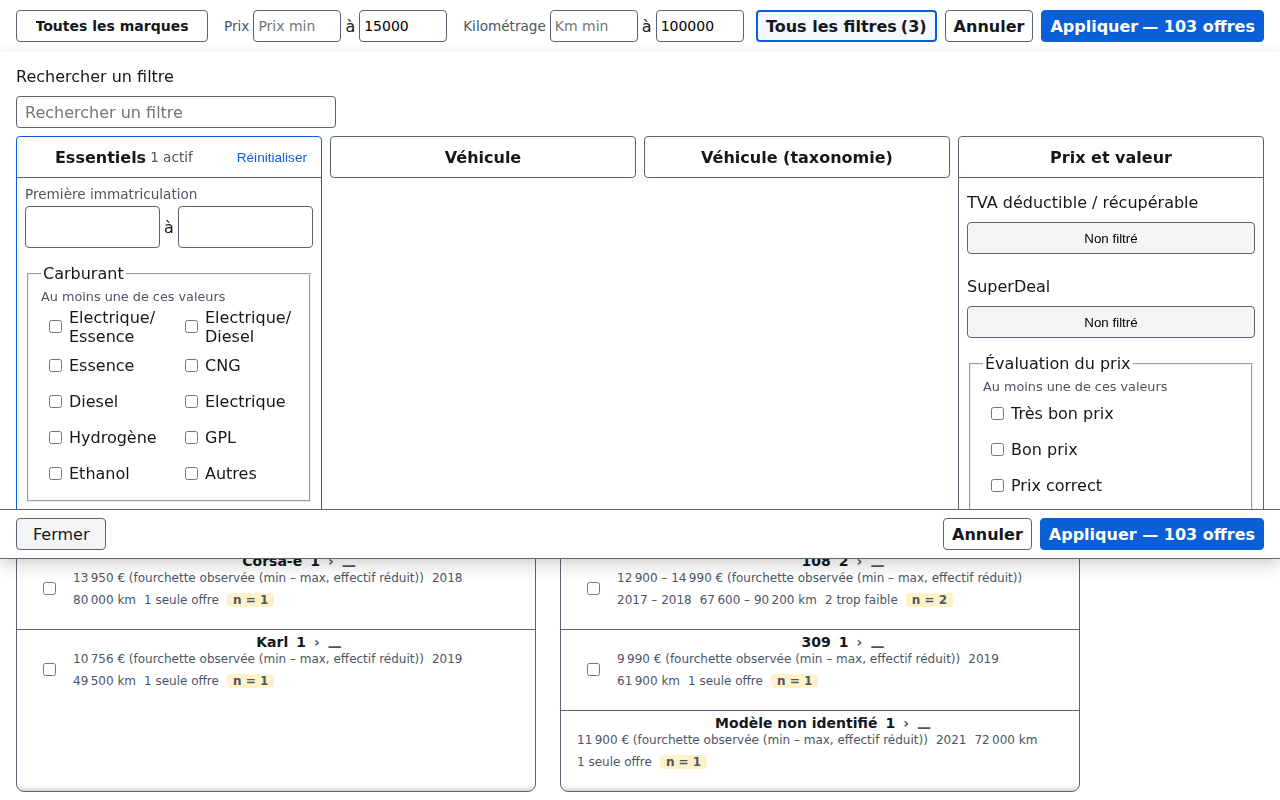
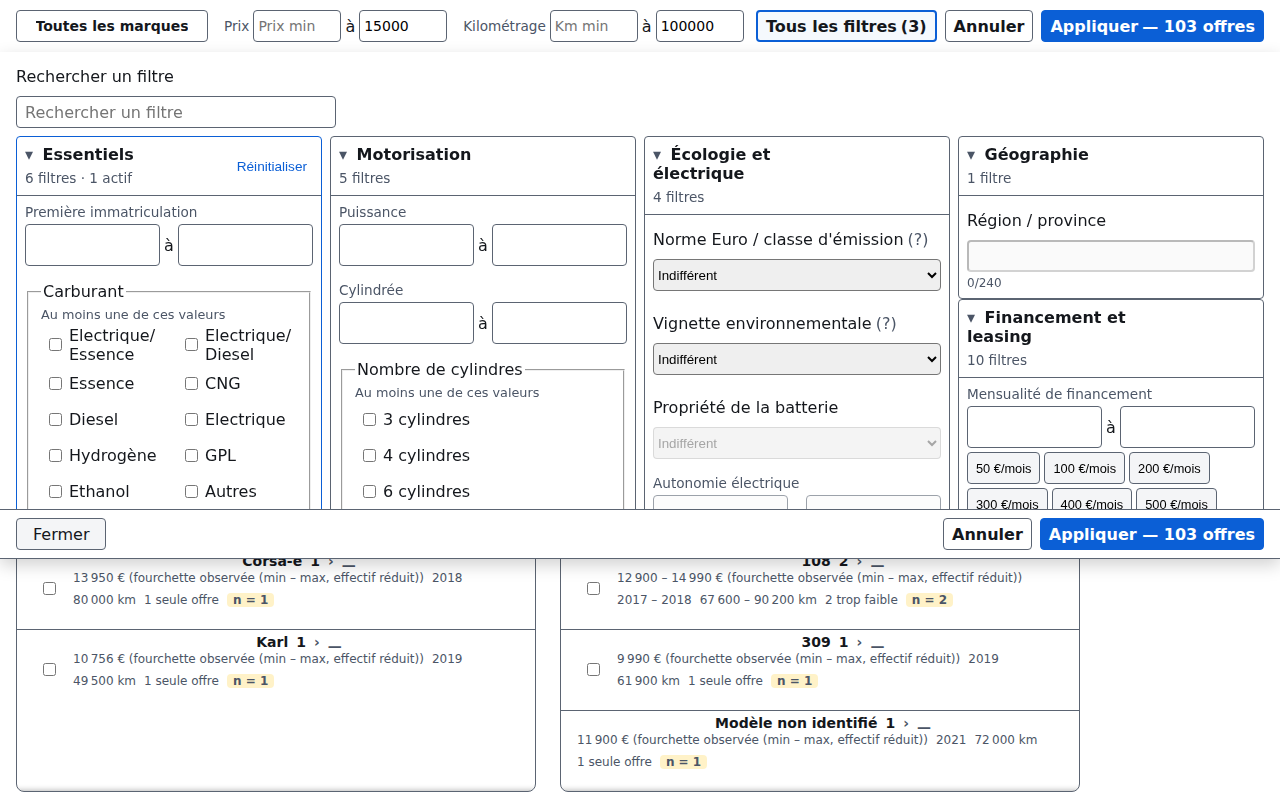
D3-46 coordinator review: wrap card titles instead of truncating, skip fieldset-disabled controls in the keyboard probe (D-31), refreshed screenshots
Claude-Session: https://claude.ai/code/session_013BEdUqzL45WFJNSGc1CKwQ

diff --git a/tests/e2e/clavier.spec.ts b/tests/e2e/clavier.spec.ts
@@ -34,6 +34,11 @@ async function markFocusables(page: Page, root: string): Promise<number> {
       if (container === null) return 0;
       let i = 0;
       for (const el of container.querySelectorAll<HTMLElement>(focusableSelector)) {
+        // D-31 (`ux-filters`, retouche coordinateur de D3-46 : toutes les cartes du panneau sont
+        // dépliées) : un contrôle d'un `<fieldset disabled>` (filtre désactivé, `EX-SCR-88`) n'est
+        // PAS dans l'ordre de tabulation (HTML) mais échappait au sélecteur, faute d'attribut
+        // `disabled` propre ; il n'apparaissait jamais tant que ces groupes restaient repliés.
+        if (el.matches(':disabled')) continue;
         el.setAttribute('data-e2e-tab', String(i));
         i += 1;
       }

diff --git a/src/components/filters/filter-band.css b/src/components/filters/filter-band.css
@@ -422,13 +422,14 @@
   text-align: left;
 }
 
+/* Titre et méta passent à la ligne plutôt que d'être tronqués ; seule la méta dépend des filtres
+   actifs, et elle tient sur une ligne (« 10 filtres · 10 actifs ») à la largeur minimale de carte. */
 .kycar-filter-card__title,
 .kycar-filter-card__meta {
   display: block;
   max-width: 100%;
-  white-space: nowrap;
-  overflow: hidden;
-  text-overflow: ellipsis;
+  white-space: normal;
+  overflow-wrap: anywhere;
 }
 
 .kycar-filter-card[data-card='essentiels'] {
